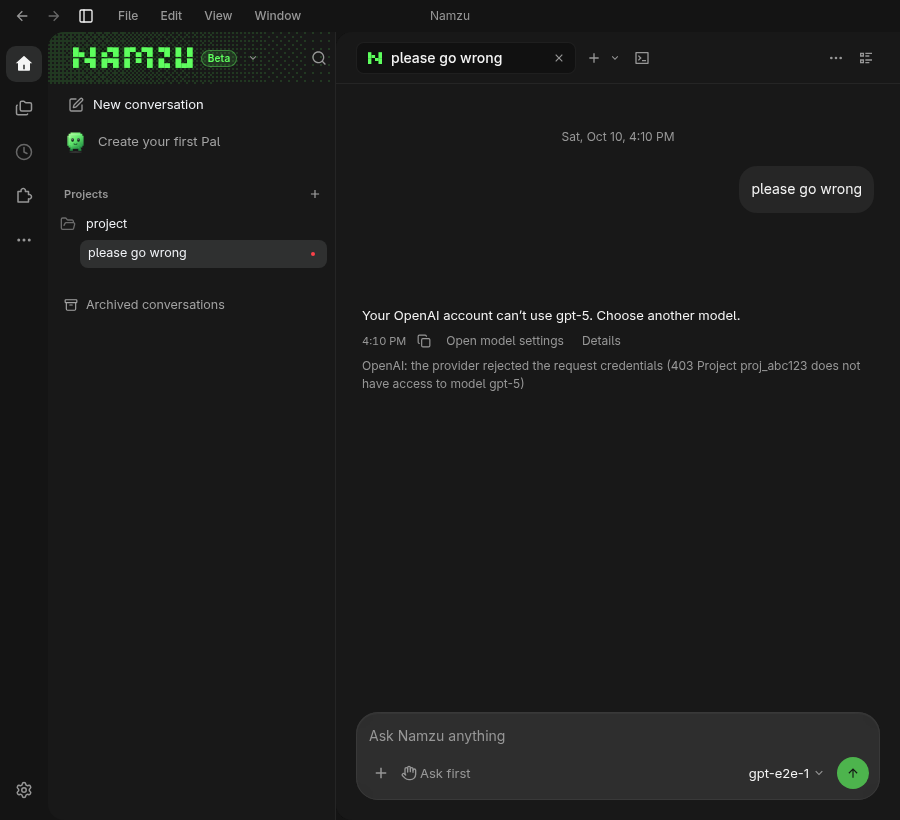
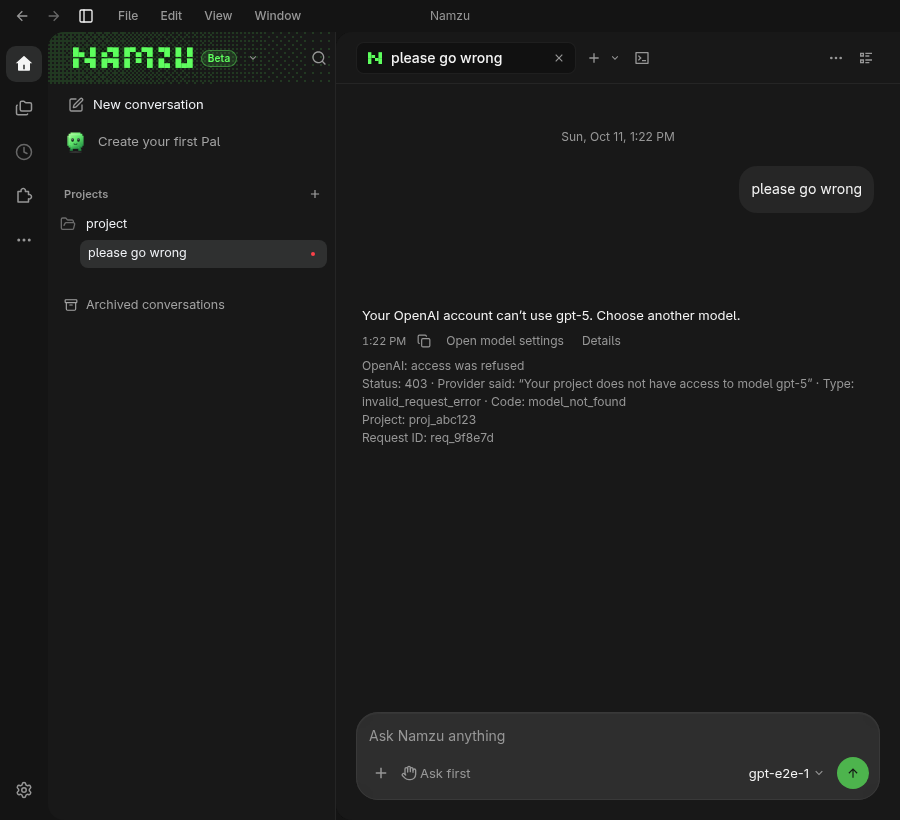
fix(sdk): carry the provider's type, code and request ID from OpenAI and Google failures to Details

Changed region(s): [[0.4044, 0.4268, 0.9644, 0.5488], [0.6533, 0.1524, 0.7467, 0.1829], [0.4044, 0.3963, 0.4356, 0.4268]]

diff --git a/packages/sdk/src/provider/errors.ts b/packages/sdk/src/provider/errors.ts
@@ -386,6 +386,71 @@ function vendorRetryAfter(err: unknown): string | undefined {
 	return undefined
 }
 
+/** Response headers that name the request, as the vendors that send one spell it. */
+const REQUEST_ID_HEADERS = ['x-request-id', 'request-id', 'x-goog-request-id'] as const
+
+/** A header off an SDK error's captured response headers (a `Headers` or a plain object). */
+function vendorHeader(err: unknown, names: readonly string[]): string | undefined {
+	if (typeof err !== 'object' || err === null) return undefined
+	const headers =
+		(err as { headers?: unknown }).headers ??
+		(err as { $response?: { headers?: unknown } }).$response?.headers
+	if (!headers) return undefined
+	for (const name of names) {
+		if (typeof (headers as Headers).get === 'function') {
+			const value = (headers as Headers).get(name)
+			if (value) return value
+			continue
+		}
+		const value = (headers as Record<string, unknown>)[name]
+		if (typeof value === 'string' && value) return value
+	}
+	return undefined
+}
+
+const FIELD_VALUE = /^[A-Za-z0-9][A-Za-z0-9._:/-]{0,127}$/
+
+function fieldValue(value: unknown): string | undefined {
+	return typeof value === 'string' && FIELD_VALUE.test(value) && redactSecrets(value) === value
+		? value
+		: undefined
+}
+
+/**
+ * The provider's structured fields beside its sentence, in the one body shape every host already
+ * reads (`{"error":{"message","type","code","param"},"request_id"}`).
+ *
+ * A vendor SDK whose error message is only the parsed sentence (OpenAI's "403 <message>") still
+ * holds the body's `type`, `code`, `param` and the response's request ID as fields; a host that
+ * receives the message alone cannot show them, while Anthropic's message carries its whole body
+ * and so shows them. The fields are bounded identifiers (never a body), so nothing echoed can ride
+ * along. With nothing but a sentence the result is that sentence unchanged.
+ */
+export function structuredVendorDetail(input: {
+	readonly message: string | undefined
+	readonly type?: unknown
+	readonly code?: unknown
+	readonly param?: unknown
+	readonly requestId?: unknown
+}): string | undefined {
+	const message = vendorDetail(input.message?.replace(/^\d{3}\s+/, ''))
+	const type = fieldValue(input.type)
+	const code = fieldValue(input.code)
+	const param = fieldValue(input.param)
+	const requestId = fieldValue(input.requestId)
+	if (!type && !code && !param && !requestId) return message
+	if (!message) return undefined
+	return JSON.stringify({
+		error: {
+			message,
+			...(type ? { type } : {}),
+			...(code ? { code } : {}),
+			...(param ? { param } : {}),
+		},
+		...(requestId ? { request_id: requestId } : {}),
+	})
+}
+
 /**
  * Classify an error thrown by a vendor SDK and replace it.
  *
@@ -460,7 +525,18 @@ export function providerVendorError(input: {
 		input.retryAfter ?? vendorRetryAfter(error),
 		input.now ?? Date.now(),
 	)
-	const detail = vendorDetail(message)
+	const fields = error as { type?: unknown; param?: unknown; requestID?: unknown } | null
+	// A message that already carries its body (Anthropic's) has the fields; one that is only the
+	// parsed sentence (OpenAI's) gets them from the SDK error's own properties.
+	const detail = message.includes('{')
+		? vendorDetail(message)
+		: structuredVendorDetail({
+				message,
+				type: fields?.type,
+				code: exactProviderCode,
+				param: fields?.param,
+				requestId: fields?.requestID ?? vendorHeader(error, REQUEST_ID_HEADERS),
+			})
 	return new ProviderRequestError({
 		kind,
 		providerId: input.providerId,
@@ -469,6 +545,39 @@ export function providerVendorError(input: {
 		...(retryAfterMs !== undefined ? { retryAfterMs } : {}),
 		...(detail !== undefined ? { detail } : {}),
 	})
+}
+
+function parsedBody(body: unknown): Record<string, unknown> | undefined {
+	let decoded = body
+	if (typeof decoded === 'string') {
+		try {
+			decoded = JSON.parse(decoded)
+		} catch {
+			return undefined
+		}
+	}
+	return typeof decoded === 'object' && decoded !== null && !Array.isArray(decoded)
+		? (decoded as Record<string, unknown>)
+		: undefined
+}
+
+/** `type`/`status`, `code` and `param` of a `{ error: {...} }` body, only where it spells them. */
+function bodyErrorFields(body: Record<string, unknown> | undefined): {
+	type?: unknown
+	code?: unknown
+	param?: unknown
+} {
+	const inner =
+		body && typeof body.error === 'object' && body.error !== null
+			? (body.error as Record<string, unknown>)
+			: undefined
+	if (!inner) return {}
+	// Google names its type `status` ("PERMISSION_DENIED") and sends a numeric `code` that is the HTTP status.
+	return {
+		type: inner.type ?? (typeof inner.status === 'string' ? inner.status : undefined),
+		code: typeof inner.code === 'string' ? inner.code : undefined,
+		param: inner.param,
+	}
 }
 
 /**
@@ -482,11 +591,23 @@ export function providerHttpError(input: {
 	readonly status: number
 	readonly body?: string | null
 	readonly retryAfter?: string | null
+	/** The response's request ID header, when the driver read one. */
+	readonly requestId?: string | null
 	readonly now?: number
 }): ProviderRequestError {
 	const kind = classifyProviderHttpStatus(input.status, input.body)
 	const retryAfterMs = parseRetryAfterMs(input.retryAfter, input.now ?? Date.now())
-	const detail = vendorDetail(input.body)
+	const body = parsedBody(input.body)
+	const bodyError = bodyErrorFields(body)
+	const detail = body
+		? structuredVendorDetail({
+				message: vendorDetail(input.body),
+				type: bodyError.type,
+				code: bodyError.code,
+				param: bodyError.param,
+				requestId: input.requestId,
+			})
+		: vendorDetail(input.body)
 	const exactProviderCode = providerCode(input.body)
 	return new ProviderRequestError({
 		kind,

diff --git a/packages/sdk/src/provider/__tests__/vendor-detail.test.ts b/packages/sdk/src/provider/__tests__/vendor-detail.test.ts
@@ -141,3 +141,70 @@ describe('a credential never rides along', () => {
 		expect(err.message).not.toContain('AbCdEfGhIjKlMnOpQrStUv')
 	})
 })
+
+describe('the provider type, code and request ID travel beside its sentence', () => {
+	const openai403 = () =>
+		Object.assign(new Error('403 Your project does not have access to model gpt-6-luna'), {
+			name: 'PermissionDeniedError',
+			status: 403,
+			type: 'invalid_request_error',
+			code: 'model_not_found',
+			param: null,
+			requestID: 'req_9f8e7d',
+		})
+
+	it('reads them off the vendor SDK error fields', () => {
+		const err = providerVendorError({ providerId: 'openai', error: openai403() })
+		expect(JSON.parse(err.detail ?? '')).toEqual({
+			error: {
+				message: 'Your project does not have access to model gpt-6-luna',
+				type: 'invalid_request_error',
+				code: 'model_not_found',
+			},
+			request_id: 'req_9f8e7d',
+		})
+		expect(err.providerCode).toBe('model_not_found')
+	})
+
+	it('falls back to the x-request-id response header', () => {
+		const vendor = Object.assign(openai403(), {
+			requestID: undefined,
+			headers: new Headers({ 'x-request-id': 'req_from_header' }),
+		})
+		const err = providerVendorError({ providerId: 'openai', error: vendor })
+		expect(JSON.parse(err.detail ?? '').request_id).toBe('req_from_header')
+	})
+
+	it('leaves a message that already carries its body, and a bare sentence, as they were', () => {
+		const anthropic = Object.assign(
+			new Error('403 {"type":"error","error":{"type":"permission_error","message":"nope"}}'),
+			{ status: 403, type: 'permission_error' },
+		)
+		expect(providerVendorError({ providerId: 'anthropic', error: anthropic }).detail).toContain(
+			'permission_error',
+		)
+		const bare = Object.assign(new Error('boom'), { status: 500 })
+		expect(providerVendorError({ providerId: 'x', error: bare }).detail).toBe('boom')
+	})
+
+	it('never lets a credential-shaped field value ride along', () => {
+		const vendor = Object.assign(openai403(), { requestID: 'sk-ant-api03-AbCdEfGhIjKlMnOpQrStUv' })
+		const err = providerVendorError({ providerId: 'openai', error: vendor })
+		expect(err.detail).not.toContain('sk-ant')
+	})
+
+	it('keeps the status of a Google body as the type, and the response request ID', () => {
+		const err = providerHttpError({
+			providerId: 'google',
+			status: 403,
+			requestId: 'goog_req_1',
+			body: JSON.stringify({
+				error: { code: 403, message: 'Denied for this project', status: 'PERMISSION_DENIED' },
+			}),
+		})
+		expect(JSON.parse(err.detail ?? '')).toEqual({
+			error: { message: 'Denied for this project', type: 'PERMISSION_DENIED' },
+			request_id: 'goog_req_1',
+		})
+	})
+})

diff --git a/packages/desktop/src/renderer/friendly-errors.test.ts b/packages/desktop/src/renderer/friendly-errors.test.ts
@@ -267,9 +267,25 @@ describe('Details wording', () => {
 			'openai (HTTP 403) — the provider rejected the request credentials: Project proj_abc123 does not have access to model gpt-5',
 		)
 		expect(failure.details).toBe(
-			'OpenAI: access was refused\nStatus: 403 · Provider said: “Your project does not have access to model gpt-5”\nOpenAI project: proj_abc123',
+			'OpenAI: access was refused\nStatus: 403 · Provider said: “Your project does not have access to model gpt-5”\nProject: proj_abc123',
 		)
 		expect(failure.details).not.toMatch(/rejected the request credentials/)
+	})
+	it('shows the OpenAI type, code and request ID the driver carries, with the project on its own line', () => {
+		const failure = describeFailure(
+			'openai (HTTP 403) — the provider rejected the request credentials: {"error":{"message":"Project proj_abc123 does not have access to model gpt-6-luna","type":"invalid_request_error","code":"model_not_found"},"request_id":"req_9f8e7d"}',
+		)
+		expect(failure.details).toBe(
+			'OpenAI: access was refused\nStatus: 403 · Provider said: “Your project does not have access to model gpt-6-luna” · Type: invalid_request_error · Code: model_not_found\nProject: proj_abc123\nRequest ID: req_9f8e7d',
+		)
+	})
+	it('shows the type and code of a 429 the same way', () => {
+		const failure = describeFailure(
+			'openai (HTTP 429) — rate limited by the provider: {"error":{"message":"Rate limit reached for gpt-6-luna","type":"rate_limit_error","code":"rate_limit_exceeded"},"request_id":"req_429aa11"}',
+		)
+		expect(failure.details).toBe(
+			'OpenAI: rate limited by the provider\nStatus: 429 · Provider said: “Rate limit reached for gpt-6-luna” · Type: rate_limit_error · Code: rate_limit_exceeded\nRequest ID: req_429aa11',
+		)
 	})
 	it('does not say a reply went unreported when none arrived', () => {
 		expect(unknownUsageDetail()).not.toMatch(/\breply\b/)
@@ -369,7 +385,7 @@ describe('Details are the same labelled fields on every wire', () => {
 	}
 	const expected: Record<string, string> = {
 		'openai.403':
-			'OpenAI: access was refused\nStatus: 403 · Provider said: “Your project does not have access to model gpt-6-luna”\nOpenAI project: proj_abc123',
+			'OpenAI: access was refused\nStatus: 403 · Provider said: “Your project does not have access to model gpt-6-luna”\nProject: proj_abc123',
 		'openai.429':
 			'OpenAI: rate limited by the provider\nStatus: 429 · Provider said: “Rate limit reached for gpt-6-luna in organization org-x on requests per min. Limit: 3, Used: 3”',
 		'openai.quota':

diff --git a/packages/providers/openai/src/__tests__/error-taxonomy.test.ts b/packages/providers/openai/src/__tests__/error-taxonomy.test.ts
@@ -165,6 +165,32 @@ describe('@namzu/openai — provider error taxonomy', () => {
 		})
 	}, 30_000)
 
+	it('carries the provider type, code and request ID the SDK error holds, not only its message', async () => {
+		const err = (await captureChatStreamError({
+			status: 403,
+			headers: { 'x-request-id': 'req_9f8e7d' },
+			body: JSON.stringify({
+				error: {
+					message: 'Your project does not have access to model gpt-6-luna',
+					type: 'invalid_request_error',
+					code: 'model_not_found',
+					param: null,
+				},
+			}),
+		})) as Error & { detail?: string }
+
+		expect(JSON.parse(err.detail?.replace(/^\d{3}\s+/, '') ?? 'null')).toEqual({
+			error: {
+				message: 'Your project does not have access to model gpt-6-luna',
+				type: 'invalid_request_error',
+				code: 'model_not_found',
+			},
+			request_id: 'req_9f8e7d',
+		})
+		expect(err.message).toContain('model_not_found')
+		expect(err.message).toContain('req_9f8e7d')
+	}, 30_000)
+
 	it('(d) SECURITY: a credential echoed back in a 401 body never reaches the thrown message', async () => {
 		const err = await captureChatStreamError({
 			status: 401,

diff --git a/packages/providers/google/src/client.test.ts b/packages/providers/google/src/client.test.ts
@@ -146,6 +146,24 @@ describe('native Gemini transport', () => {
 			status: 401,
 		})
 	})
+	it('keeps the status, type and request ID Google sent with a refusal', async () => {
+		const failure = (await collect(
+			new GoogleProvider({
+				apiKey: 'key',
+				fetch: async () =>
+					new Response(
+						JSON.stringify({
+							error: { code: 403, message: 'Denied for this project', status: 'PERMISSION_DENIED' },
+						}),
+						{ status: 403, headers: { 'x-goog-request-id': 'goog_req_1' } },
+					),
+			}),
+		).catch((err: unknown) => err as { detail?: string })) as { detail?: string }
+		expect(JSON.parse(failure.detail ?? '')).toEqual({
+			error: { message: 'Denied for this project', type: 'PERMISSION_DENIED' },
+			request_id: 'goog_req_1',
+		})
+	})
 	it('cancels before obtaining credentials or fetching', async () => {
 		const controller = new AbortController()
 		controller.abort()

diff --git a/packages/providers/google/src/client.ts b/packages/providers/google/src/client.ts
@@ -120,11 +120,15 @@ export class GoogleProvider implements LLMProvider {
 			signal,
 		})
 		if (!res.ok) {
-			await res.body?.cancel()
+			// The body is read for the provider's own sentence, status and code; the error keeps
+			// those scrubbed and drops the rest.
+			const body = await res.text().catch(() => '')
 			throw providerHttpError({
 				providerId: this.id,
 				status: res.status,
+				body,
 				retryAfter: res.headers.get('retry-after'),
+				requestId: res.headers.get('x-request-id') ?? res.headers.get('x-goog-request-id'),
 			})
 		}
 		return res

diff --git a/packages/desktop/src/renderer/friendly-errors.ts b/packages/desktop/src/renderer/friendly-errors.ts
@@ -242,7 +242,7 @@ function plainProviderDetails(raw: string): string[] {
 	const requestId =
 		vendor?.requestId ?? REQUEST_ID.exec(vendor ? '' : body)?.[1] ?? REQUEST_TOKEN.exec(body)?.[0]
 	const tail = [
-		...(projectId ? [`${name} project: ${projectId}`] : []),
+		...(projectId ? [`Project: ${projectId}`] : []),
 		...(requestId ? [`Request ID: ${requestId}`] : []),
 	]
 	const fields = [

diff --git a/docs/cli/desktop.md b/docs/cli/desktop.md
@@ -767,13 +767,16 @@ conversation has no token limit of its own (the ACP session is opened without `l
 same conversation; **Details** then reads the same labelled fields whichever wire answered
 (`plainProviderDetails` in `friendly-errors.ts`): "OpenAI: the provider failed to complete the request"
 then "Status: 502 · Provider said: “Bad Gateway”", a labelled "Request ID: …" when the vendor sent one and a
-labelled vendor project ("OpenAI project: proj_…"; a 403 reads "access was refused", never the runtime's
-own sentence about credentials). The OpenAI driver hands the message over already parsed ("403 Your project
-does not have access to model …"), Anthropic's arrives as JSON and Google's driver keeps no body; all three
-read as "Status: 403 · Provider said: “…”", with **Type**, **Code** and **Field** where the vendor sent them
-as JSON (Anthropic `{type, error: {type, message}}`, OpenAI `{error: {message, type, code, param}}`, Google
-`{error: {code, message, status}}` and a bare JSON string), and with the status alone when no body was kept
-("Google: access was refused" then "Status: 403"). An unknown shape becomes one capped excerpt with no braces or quotes (`friendly-errors.ts`). A request that
+labelled vendor project ("Project: proj_…", the same as "Request ID"; a 403 reads "access was refused", never the runtime's
+own sentence about credentials). Every wire reads as "Status: 403 · Provider said: “…” · Type: invalid_request_error · Code: model_not_found",
+with **Type**, **Code** and **Field** wherever the vendor sent them. Anthropic's message carries its whole JSON body, so the host reads
+them from it. The OpenAI SDK's own message is only the parsed sentence ("403 Your project does not have access to model …"),
+but its error holds `type`, `code`, `param` and `requestID` (or the `x-request-id` header) as fields; the driver error
+(`providerVendorError` in `@namzu/sdk`) now writes those, scrubbed and bounded, beside the sentence in the same
+`{error: {message, type, code, param}, request_id}` body shape, so a 403 or 429 on the OpenAI wire shows the Type, Code
+and Request ID Anthropic's does. Google's driver now reads its refusal body (`{error: {code, message, status}}`, its
+`status` is the Type) and the `x-goog-request-id` header the same way (`providerHttpError`); a bare JSON string and a
+reply with no body keep the status alone ("Google: access was refused" then "Status: 403"). An unknown shape becomes one capped excerpt with no braces or quotes (`friendly-errors.ts`). A request that
 failed before any reply arrived carries no usage line in Details; "No usage was reported for the
 failed attempts." appears only when a reply did arrive without a usage count. Details say each thing
 once: a repeated HTML title, "(no body)" and a duplicated status are dropped, and token counts are

diff --git a/docs/log.md b/docs/log.md
@@ -2,6 +2,7 @@
 
 ## 2026-10-11
 
+- **Update** [Desktop](cli/desktop.md#what-a-failed-reply-says): the Details of an OpenAI or Google failure carry the same fields as Anthropic's ("Status · Provider said · Type · Code", then "Project:" and "Request ID:" on their own lines). The OpenAI driver's error held `type`, `code`, `param` and `requestID` but handed the host only the parsed sentence; `providerVendorError` and `providerHttpError` now carry them in the one body shape the host already reads, and the Google driver reads its refusal body and request-ID header instead of discarding them. The project line is "Project: …". Covered by `vendor-detail.test.ts`, the OpenAI `error-taxonomy.test.ts`, the Google `client.test.ts`, `friendly-errors.test.ts` and `e2e/ux-provider-replies.test.mjs`.
 - **Update** [Desktop](cli/desktop.md#what-a-failed-reply-says) and [Session log](sdk/session-log.md): **Continue without this reply** no longer makes the provider see the person's message twice. The closed turn's prompt stayed in the history, so sending the restored message repeated it; `abandonTurn` now takes `withdrawMessages` (the closing `turn_failed` carries `failure.details.messagesWithdrawn`, the fold leaves that turn's messages out, the log keeps them) and `namzu/sessions/abandon-paused` uses it. The default for other callers is unchanged. Covered by `an-abandoned-turn-handed-back-leaves-no-message-behind.test.ts`, `acp-provider-retry-runtime.test.ts` and the provider-request assertions in `e2e/ux-provider-replies.test.mjs` and `e2e/ux-providers-errors.test.mjs`.
 - **Update** [Desktop](cli/desktop.md#what-a-failed-reply-says): **Continue without this reply** works in a Pal (the Pal's session had no `abandonTurn`, so the host answered "This connection cannot close paused turns"; it now closes the paused turn on the Pal's own log, and a remaining refusal is one plain sentence), and Details use the same labelled fields on every wire ("Status: 403 · Provider said: “…”" for the OpenAI driver's already-parsed message and for Google's bodiless errors, not only for Anthropic's JSON; a status-line-only reply reads "Status: 502 · Provider said: “Bad Gateway”"). Covered by `pals/agent-session.test.ts`, `friendly-errors.test.ts`, `plain-error.test.ts` and `e2e/ux-provider-replies.test.mjs`.
 - **Update** [Desktop](cli/desktop.md#what-a-failed-reply-says) and [Desktop](cli/desktop.md#conversation-panes-and-windows): a failed reply that cannot be repeated is one message (`combineStopped`) in the usual row, with no Retry and its Details intact, in project and Pal conversations; a pane at its minimum height drops the large welcome heading instead of drawing it over the tab strip, and its message box scrolls inside the pane. Covered by `e2e/ux-failed-reply-row.test.mjs` and `e2e/ux-layout-geometry.test.mjs`.

diff --git a/.changeset/openai-google-details-carry-type-code-request-id.md b/.changeset/openai-google-details-carry-type-code-request-id.md
@@ -1,0 +1,8 @@
+---
+"@namzu/sdk": patch
+"@namzu/openai": patch
+"@namzu/google": patch
+"@namzu/desktop": patch
+---
+
+A failed OpenAI or Google request now reaches the host with the provider's own type, code, parameter and request ID, as an Anthropic failure already did, so Details read "Status: 403 · Provider said: “…” · Type: invalid_request_error · Code: model_not_found" with "Request ID: …" on its own line. The error's `detail` for a vendor SDK error whose message is only a sentence is now a JSON body of those fields (`{"error":{"message","type","code","param"},"request_id"}`) instead of the bare sentence; read `providerCode` or the `Details` of a host rather than matching the sentence text. The Google driver now reads its refusal body and request-ID header. The vendor project line in Details reads "Project: proj_…".
